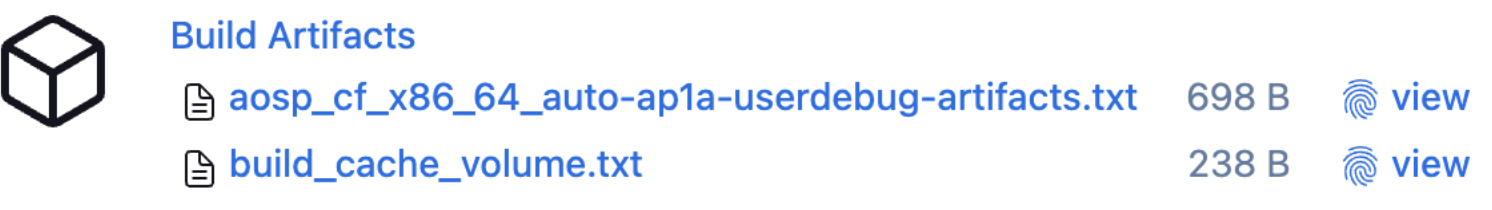
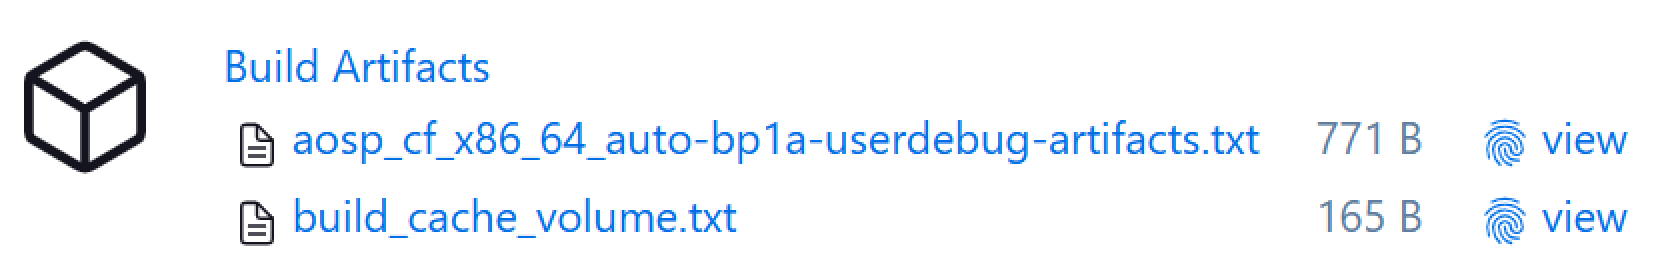
TAA-863: Developer Guide updates
Update for R2.0.0 features.

Note: we will update Cuttlefish in a later commit.

diff --git a/docs/workloads/android/guides/developer_guide.md b/docs/workloads/android/guides/developer_guide.md
@@ -1,7 +1,7 @@
-# <span style="color:#335bff">Horizon SDV Hackathon Developer Guide</span>
+# <span style="color:#335bff">Horizon SDV Developer Guide</span>
 
 ## <span style="color:#335bff">1. Overview<a name="1-overview"></a></span>
-This page offers a set of suggested lab exercises and projects for developers to work on during the Horizon SDV Hackathon sessions.
+This page offers a set of suggested exercises and projects for developers to work on in order to gain an understanding of the Horizon SDV pipeline jobs.
 
 The lab exercises are organised into three levels:
 
@@ -14,22 +14,19 @@ These exercises cater for two types of developers:
 - [**Application Developers**](#5-application-developer): Those who may use Android Studio as their primary development and testing platform.
 - [**Platform Developers**](#6-platform-developer): Those who may focus on Cuttlefish and hardware platform targets.
 
-  <br/><img src="images/section.1/Hackathon_Overview.drawio.png" width="400" /><br/>
+  <br/><img src="images/section.1/Overview.drawio.png" width="400" /><br/>
 
 > [!NOTE]
+> - When following the guide make sure to use the latest Android revision available. Revisions in Jenkins move while
+>   this guide is unchanged.
 > - Developers are free to choose their own path and are not limited to a single approach.
 >   - They can select the labs that works best for them, or participate in both, without any restrictions or siloing.
 > - There is some common setup required, outlined in the following section:
 >   - [4. Common Developer Preparation](#4-common-developer-preparation)
 
 > [!IMPORTANT]
-> **Hackathon Events**
-> - If you're attending a hackathon event, you can skip section [3. Prerequisites](#3-prerequisites).
->   - The Hackathon facilitation team will have already set up the necessary infrastructure for the labs, and they'll provide the details to your team on the day of the event, i.e. [3.6 Hackathon On-Site Preparation](#3-6-hackathon-on-site-preparation).
->   - They too may ensure you have the correct hardware setup for the labs, and provide any additional instructions that may be required. i.e. [4. Common Developer Preparation](#4-common-developer-preparation).
-> - However, if you're interested in learning more about the underlying setup, section [3. Prerequisites](#3-prerequisites) provides additional context that may be helpful, especially when reviewing and working with section [7. Appendix](#7-appendix).
-
----
+> - Please use the latest available Android revisions when following this guide. Jenkins Android revisions may change over time, while this guide remains showing older versions.
+> - When working with Cuttlefish, please be aware that the latest supported versions change frequently. The examples provided in this guide may become outdated, as <a href=https://github.com/google/android-cuttlefish/tags>tags</a> are updated regularly.
 
 ## <span style="color:#335bff">2. Table Of Contents <a name="2-table-of-contents"></a></span>
 
@@ -52,7 +49,7 @@ These exercises cater for two types of developers:
       * [3.4.4.1 `android-14.0.0_r74` - surround view bug](#3-4-4-1-surround-view-bug)
       * [3.4.4.2 `android-14.0.0_r30` - audio crash bug](#3-4-4-2-audio-crash-bug)
   * [3.5 Warmed Build Caches](#3-5-warmed-build-caches)
-  * [3.6 Hackathon On-Site Preparation](#3-6-hackathon-on-site-preparation)
+  * [3.6 Preparation](#3-6-preparation)
 - [4. Common Developer Preparation](#4-common-developer-preparation)
 - [5. Application Developer](#5-application-developer)
   * [5.1 Foundation](#5-1-foundation)
@@ -93,7 +90,7 @@ These exercises cater for two types of developers:
 
 ## <span style="color:#335bff">3. Prerequisites <a name="3-prerequisites"></a></span>
 
-Before either developer can utilise the Horizon SDV platform tools, several prerequisite steps must be completed. Hackathon facilitation team may have already done all these steps for these streams, but included here for completeness.
+Before either developer can utilise the Horizon SDV platform tools, several prerequisite steps must be completed.
 
 Summary of pre-requisite tasks:
 - Horizon SDV Platform Provisioned.
@@ -708,7 +705,7 @@ This task can be done concurrently while `CF Instance Template` job is running, 
 
 </details>
 
-### <span style="color:#335bff">3.6 Hackathon On-Site Preparation<a name="3-6-hackathon-on-site-preparation"></a></span>
+### <span style="color:#335bff">3.6 Preparation<a name="3-6-preparation"></a></span>
 
 Users must be given access to their respective GCP Project, but also:
 
@@ -717,9 +714,6 @@ Users must be given access to their respective GCP Project, but also:
 - Users are provided an overview of GCP, authentication/login and gcloud CLI installation and usage ahead of break out into team tutorial sessions.
 - Users added to Keycloak so they may access Gerrit, Jenkins and MTK Connect
 - Users added to Administrator group in Gerrit so they may work with code review system.
-
-> [!TIP]
-> - It may be best to nominate a team member to manage user accounts on the day of the Hackathon, i.e. assign an initial administrator for both Keycloak and Gerrit to grant access to team members.
 
 - Hardware Platforms available (Pixel Tablets)
 
@@ -737,8 +731,6 @@ Users must be given access to their respective GCP Project, but also:
   - Alternatively, Google [platform-tools](https://developer.android.com/tools/releases/platform-tools) installed.
   - Windows users will need [win-usb](https://developer.android.com/studio/run/win-usb) to use `adb` with Hardware via USB.
 - Access to their Google Cloud Platform project (assumes GCP project and tooling was already setup ahead of time)
-  - Student ID (email) assigned for Qwiklabs.
-    - Only required if accessing the lab from within the Qwiklabs environment.
   - Users added to keycloak so they may access the tools.
   - Users can access their Horizon SDV landing page, and access the tools in the browser:
     - Gerrit, Jenkins and MTK Connect
@@ -783,7 +775,7 @@ ___
 - Open Jenkins Dashboard (e.g. https://example.horizon-sdv.com/jenkins/) and navigate to AAOS Builder pipeline job to prepare build targets that will be used in this exercise.
 - Select `Android Workflows` → `Builds` → `AAOS Builder` → `Build with Parameters` and define the `AAOS_LUNCH_TARGET` and select `Build`
 
-  - `sdk_car_x86_64-ap1a-userdebug` or `sdk_car_arm64-ap1a-userdebug` (choose based on you local PC architecture)
+  - `sdk_car_x86_64-bp1a-userdebug` or `sdk_car_arm64-bp1a-userdebug` (choose based on you local PC architecture)
 
     <img src="images/section.5/5.1.1_aaos_builder.png" width="200" />
 
@@ -822,9 +814,9 @@ The follow on section should be second nature to most but we will explain for th
 
   - Select `+` to add your virtual device images/addon downloaded from previous `sdk_car_<ARCH>-userdebug` build.
 
-    - Find your addon file `horizon-sdv-aaos-sys-img2-1.xml` and define URL: using `file:////`, e.g.
+    - Find your addon file `horizon-sdv-aaos-sys-img2-1.xml` and define URL: using `file:///`, e.g.
 
-      `file:////Users/dave.m.smith/horizon-sdv/horizon-sdv-aaos-sys-img2-1.xml` and select `OK` and in `Settings` select `Apply`
+      `file:///Users/dave.m.smith/horizon-sdv/horizon-sdv-aaos-sys-img2-1.xml` and select `OK` and in `Settings` select `Apply`
 
       <img src="images/section.5/5.1.1_android_studio_update_sites_url.png" width="275" />
 
@@ -848,8 +840,7 @@ The follow on section should be second nature to most but we will explain for th
 
     <img src="images/section.5/5.1.1_android_studio_virtual_device.png" width="400" />
 
-    <img src="images/section.5/5.1.1_android_studio_virtual_device_1.png" width="400" />
-  - `System Image` should show the `Android 14.0 (Horizon SDV)` target image, select it and select `Next`
+  - `System Image` should show the `Android 15.0 (Horizon SDV)` target image, select it and select `Next`
   - If you wish, change the `AVD Name` within `Verify Configuration`.
   - The Virtual Device is now available to use:
 
@@ -878,14 +869,14 @@ Application developers may not use Cuttlefish to any great extent, but this lab 
 **_Create Cuttlefish Virtual Device target:_**
 
 - Open Jenkins Dashboard (e.g. https://example.horizon-sdv.com/jenkins/) and navigate to AAOS Builder pipeline job to prepare build targets that will be used in this lab exercise.
-- Select `Android Workflows` → `Builds` → `AAOS Builder` → `Build with Parameters` and define the `AAOS_LUNCH_TARGET` as `aosp_cf_x86_64_auto-ap1a-userdebug` and select `Build`
+- Select `Android Workflows` → `Builds` → `AAOS Builder` → `Build with Parameters` and define the `AAOS_LUNCH_TARGET` as `aosp_cf_x86_64_auto-bp1a-userdebug` and select `Build`
 
   - When the build completes, the job will show the artifacts it has stored. These help the user locate the build artifacts within the
 Google Cloud Storage bucket for use with testing CF Virtual Devices and connecting to the device through Android Studio.  e.g.
 
     <img src="images/section.5/5.1.2_aaos_builder_artifact_1.png" width="400" />
 
-  - Open the `aosp_cf_x86_64_auto-ap1a-userdebug-artifacts.txt` which will show you were the artfifacts are stored, e.g.
+  - Open the `aosp_cf_x86_64_auto-bp1a-userdebug-artifacts.txt` which will show you were the artfifacts are stored, e.g.
 
     <img src="images/section.5/5.1.2_aaos_builder_artifact_2.png" width="600" />
 
@@ -987,7 +978,7 @@ Cloning / editing of code should be performed as per usual methods - it is not i
 - Save and push the change for review:
   - Commit: `git commit -am "Car Launcher weather app update"`
   - Update Change ID if one was not automatically generated in your commit: `git commit --amend --no-edit`
-  - Push for Review: `git push origin HEAD:refs/for/horizon/android-14.0.0_r30`
+  - Push for Review: `git push origin HEAD:refs/for/horizon/android-15.0.0_r32`
     - The remote should report success and provide a link back to the Gerrit review, e.g.
       - `https://example.horizon-sdv.com/gerrit/c/android/platform/packages/apps/Car/Launcher/+/182 Car Launcher weather app update [NEW]`
 
@@ -1299,9 +1290,6 @@ By completing this exercise, you will have learned about the process of building
 
 Currently, our test jobs rely on the default Android CTS versions provided by Google, which are pre-installed on the VM instances used to launch Cuttlefish Virtual Devices. But the purpose of this build, is to allow user flexibility to test with their own CTS, rather than the default versions.
 
-> [!IMPORTANT]
-> If you're running this lab exercise as part of a Qwiklabs-based Hackathon event, please be aware that resources are limited. To ensure a smooth experience, we recommend having only one attendee per instance complete this lab exercise at a time during the `Foundation` exercises.
-
 <details><summary><b>Lab Exercise</b></summary>
 
 ___
@@ -1315,7 +1303,7 @@ In this exercise, we will walk you through the process of building your own CTS 
 
 - Open Jenkins Dashboard (e.g. https://example.horizon-sdv.com/jenkins/) and navigate to `CTS Builder` pipeline job to prepare build targets that will be used in this lab exercise.
 - Select `Android Workflows` → `Builds` → `CTS Builder`
-  - Select `Build with Parameters` and set the `AAOS_LUNCH_TARGET` to `aosp_cf_x86_64_auto-ap1a-userdebug` and select `Build`
+  - Select `Build with Parameters` and set the `AAOS_LUNCH_TARGET` to `aosp_cf_x86_64_auto-bp1a-userdebug` and select `Build`
 
     <img src="images/section.6/6.1.1_cts_builder.png" width="200" />
 
@@ -1323,11 +1311,11 @@ In this exercise, we will walk you through the process of building your own CTS 
 
     <img src="images/section.6/6.1.1_cts_builder_artifacts.png" width="300" />
 
-  - Open the `aosp_cf_x86_64_auto-ap1a-userdebug-artifacts.txt` which will show you how to retrieve the artifacts, e.g.
+  - Open the `aosp_cf_x86_64_auto-bp1a-userdebug-artifacts.txt` which will show you how to retrieve the artifacts, e.g.
 
     <img src="images/section.6/6.1.1_cts_builder_artifacts_txt.png" width="500" />
 
-    - Note the storage URL for `android-cts.zip` for later use in test jobs, e.g. `gs://sdva-2108202401-aaos/Android/Builds/CTS_Builder/1/android-cts.zip`. You do not need to download these artifacts, later jobs will simply reference the URL.
+    - Note the storage URL for `android-cts.zip` for later use in test jobs, e.g. `gs://sdva-2108202401-aaos/Android/Builds/CTS_Builder/3/android-cts.zip`. You do not need to download these artifacts, later jobs will simply reference the URL.
 
 ___
 
@@ -1349,7 +1337,7 @@ You will build the Pixel Tablet target for use in later exercises.
 
 - Open Jenkins Dashboard (e.g. https://example.horizon-sdv.com/jenkins/) and navigate to `AAOS Builder` pipeline job to prepare build targets that will be used in a later lab exercise.
 - Select `Android Workflows` → `Builds` → `AAOS Builder`
-  - Select `Build with Parameters` and set the `AAOS_LUNCH_TARGET` to `aosp_tangorpro_car-ap1a-userdebug` and select `Build`
+  - Select `Build with Parameters` and set the `AAOS_LUNCH_TARGET` to `aosp_tangorpro_car-bp1a-userdebug` and select `Build`
 
     <img src="images/section.6/6.1.2_pixel_tablet_build.png" width="200" />
 
@@ -1361,11 +1349,11 @@ You will build the Pixel Tablet target for use in later exercises.
 
   - When build completes, the job will show the artifacts it has stored. These help the user locate the build artifacts within the Google Cloud Storage bucket.
 
-  - Open the `aosp_tangorpro_car-ap1a-userdebus-artifacts.txt` which will show you how to retrieve the artifacts, e.g.
+  - Open the `aosp_tangorpro_car-bp1a-userdebus-artifacts.txt` which will show you how to retrieve the artifacts, e.g.
 
     <img src="images/section.6/6.1.2_pixel_tablet_build_artifacts.png" width="500" />
 
-    - Note the URL to download the `out_sdv-aosp_tangorpro_car-ap1a-userdebug.tgz` to your local machine for use in later exercises.
+    - Note the URL to download the `out_sdv-aosp_tangorpro_car-bp1a-userdebug.tgz` to your local machine for use in later exercises.
 
 ___
 
@@ -1387,16 +1375,16 @@ You will build a Cuttlefish Virtual Device target and test it using `CVD launche
 
 - Open Jenkins Dashboard (e.g. https://example.horizon-sdv.com/jenkins/) and navigate to `AAOS Builder` pipeline job to prepare build targets that will be used in this lab exercise.
 - Select `Android Workflows` → `Builds` → `AAOS Builder`
-  - Select `Build with Parameters` and set the `AAOS_LUNCH_TARGET` to `aosp_cf_x86_64_auto-ap1a-userdebug` and select `Build`
+  - Select `Build with Parameters` and set the `AAOS_LUNCH_TARGET` to `aosp_cf_x86_64_auto-bp1a-userdebug` and select `Build`
   - When build completes, the job will show the artifacts it has stored. These help the user locate the build artifacts within the Google Cloud Storage bucket for use with testing CF Virtual Devices and connecting to the device through Android Studio.
 
     <img src="images/section.6/6.1.3_cf_build.png" width="300" />
 
-  - Open the `aosp_cf_x86_64_auto-ap1a-userdebug-artifacts.txt` which will show you were the artfifacts are stored, e.g.
+  - Open the `aosp_cf_x86_64_auto-bp1a-userdebug-artifacts.txt` which will show you were the artfifacts are stored, e.g.
 
     <img src="images/section.6/6.1.3_cf_build_artifacts.png" width="500" />
 
-    - Note the storage location, e.g. `gs://sdva-2108202401-aaos/Android/Builds/AAOS_Builder/45` you will need that for testing. There is no need to download these artifacts.
+    - Note the storage location, e.g. `gs://sdva-2108202401-aaos/Android/Builds/AAOS_Builder/27` you will need that for testing. There is no need to download these artifacts.
 
 **_Launch Cuttlefish Virtual Device:_**
 
@@ -1553,7 +1541,7 @@ ___
 - Save and push the change for review:
   - Commit: `git commit -am "Surface Flinger basic test"`
   - Update Change ID if one was not automatically generated in your commit: `git commit --amend --no-edit`
-  - Push for Review: `git push origin HEAD:refs/for/horizon/android-14.0.0_r30`
+  - Push for Review: `git push origin HEAD:refs/for/horizon/android-15.0.0_r32`
     - The remote should report success and provide a link back to the Gerrit review, e.g.
       - `https://example.horizon-sdv.com/gerrit/c/android/platform/frameworks/native/+/184 Surface Flinger basic test [NEW]`
 
@@ -1657,7 +1645,7 @@ ___
 
 - If you can’t wait for the Gerrit build to complete the SDK AVD and CF Virtual device builds, then you may run the build manually as per Foundation,
   - `Android Workflows` → `Builds` → `AAOS Builder` → `Build with Parameters`
-  - Define the `AAOS_LUNCH_TARGET` to build `aosp_cf_x86_64_auto-ap1a-userdebug` and update the `GERRIT_PROJECT`, `GERRIT_CHANGE_NUMBER` and `GERRIT_PATCHSET_NUMBER` parameters to identify the change you wish to include in the build (note that the required details are shown in the Gerrit build job that was triggered by the change), e.g.
+  - Define the `AAOS_LUNCH_TARGET` to build `aosp_cf_x86_64_auto-bp1a-userdebug` and update the `GERRIT_PROJECT`, `GERRIT_CHANGE_NUMBER` and `GERRIT_PATCHSET_NUMBER` parameters to identify the change you wish to include in the build (note that the required details are shown in the Gerrit build job that was triggered by the change), e.g.
 
     <img src="images/section.6/6.2.1_gerrit_build_params.png" width="200" />
 
@@ -1714,15 +1702,15 @@ ___
 - **Flash the Build:**
   - Onto your own machine, download the Pixel Tablet artifact previously built in the Foundations lab exercise, e.g.
     ```
-    gsutil cp gs://sdva-2108202401-aaos/Android/Builds/AAOS_Builder/2/out_sdv-aosp_tangorpro_car-ap1a-userdebug.tgz .
+    gsutil cp gs://sdva-2108202401-aaos/Android/Builds/AAOS_Builder/2/out_sdv-aosp_tangorpro_car-bp1a-userdebug.tgz .
     ```
   - Unpack the artifacts:
     ```
-    tar -zxf out_sdv-aosp_tangorpro_car-ap1a-userdebug.tgz
+    tar -zxf out_sdv-aosp_tangorpro_car-bp1a-userdebug.tgz
     ```
   - Define `ANDROID_PRODUCT_OUT` so `fastboot` can detect the `fastboot-info.txt` file and images to flash.
     ```
-    export ANDROID_PRODUCT_OUT=out_sdv-aosp_tangorpro_car-ap1a-userdebug/target/product/tangorpro
+    export ANDROID_PRODUCT_OUT=out_sdv-aosp_tangorpro_car-bp1a-userdebug/target/product/tangorpro
     ```
     - We do not have `LUNCH` target nor the full `OUT_DIR` hence we define the environment variable for `fastboot`.
 
@@ -1834,10 +1822,10 @@ This lab exercise shows how the user may override make commands, such as require
 - Example simply demonstrates the build override, as to code changes, feel free to use your own, but we provide an example below.
 - Modify the files as per following `git diff` (remove the new lines `+` markers):
   ```
-  diff --git a/automotive/vehicle/aidl/impl/default_config/config/DefaultProperties.json b/automotive/vehicle/aidl/impl/default_config/config/DefaultProperties.json
+  diff --git a/automotive/vehicle/aidl/impl/current/default_config/config/DefaultProperties.json b/automotive/vehicle/aidl/impl/current/default_config/config/DefaultProperties.json
   index 665c10e8e3..0a4ae2e0c6 100644
-  --- a/automotive/vehicle/aidl/impl/default_config/config/DefaultProperties.json
-  +++ b/automotive/vehicle/aidl/impl/default_config/config/DefaultProperties.json
+  --- a/automotive/vehicle/aidl/impl/current/default_config/config/DefaultProperties.json
+  +++ b/automotive/vehicle/aidl/impl/current/default_config/config/DefaultProperties.json
   @@ -1,6 +1,12 @@
    {
        "apiVersion": 1,
@@ -1876,7 +1864,7 @@ This lab exercise shows how the user may override make commands, such as require
   - The Gerrit build will fail because the AIDL must be rebuilt, hence manual build following to include the additional make command step.
 
 - In Jenkins, select `Android Workflows` → `Builds` → `AAOS Builder` → `Build with Parameters` and define the `AAOS_LUNCH_TARGET` and select ` Build`
-  - `AAOS_LUNCH_TARGET` `aosp_cf_x86_64_auto-ap1a-userdebug`
+  - `AAOS_LUNCH_TARGET` `aosp_cf_x86_64_auto-bp1a-userdebug`
   - `OVERRIDE_MAKE_COMMAND` `m android.hardware.automotive.vehicle.property-update-api && m dist`
   - `GERRIT_PROJECT` `android/platform/hardware/interfaces`
   - `GERRIT_CHANGE_NUMBER` to the number of the change in Gerrit
@@ -1910,7 +1898,7 @@ ___
 > **Note:**
 > This is optional. Included if developer is interested in changing the Android Boot Animation.
 >
-> Refer to Google [README](https://android.googlesource.com/platform/packages/services/Car/+/refs/tags/android-14.0.0_r30/car_product/car_ui_portrait/bootanimation/README) and [FORMAT.md](https://android.googlesource.com/platform/frameworks/base/+/master/cmds/bootanimation/FORMAT.md) for further details.
+> Refer to Google [README](https://android.googlesource.com/platform/packages/services/Car/+/refs/tags/android-15.0.0_r32/car_product/car_ui_portrait/bootanimation/README) and [FORMAT.md](https://android.googlesource.com/platform/frameworks/base/+/master/cmds/bootanimation/FORMAT.md) for further details.
 
 **_Clone Repo:_**
 
